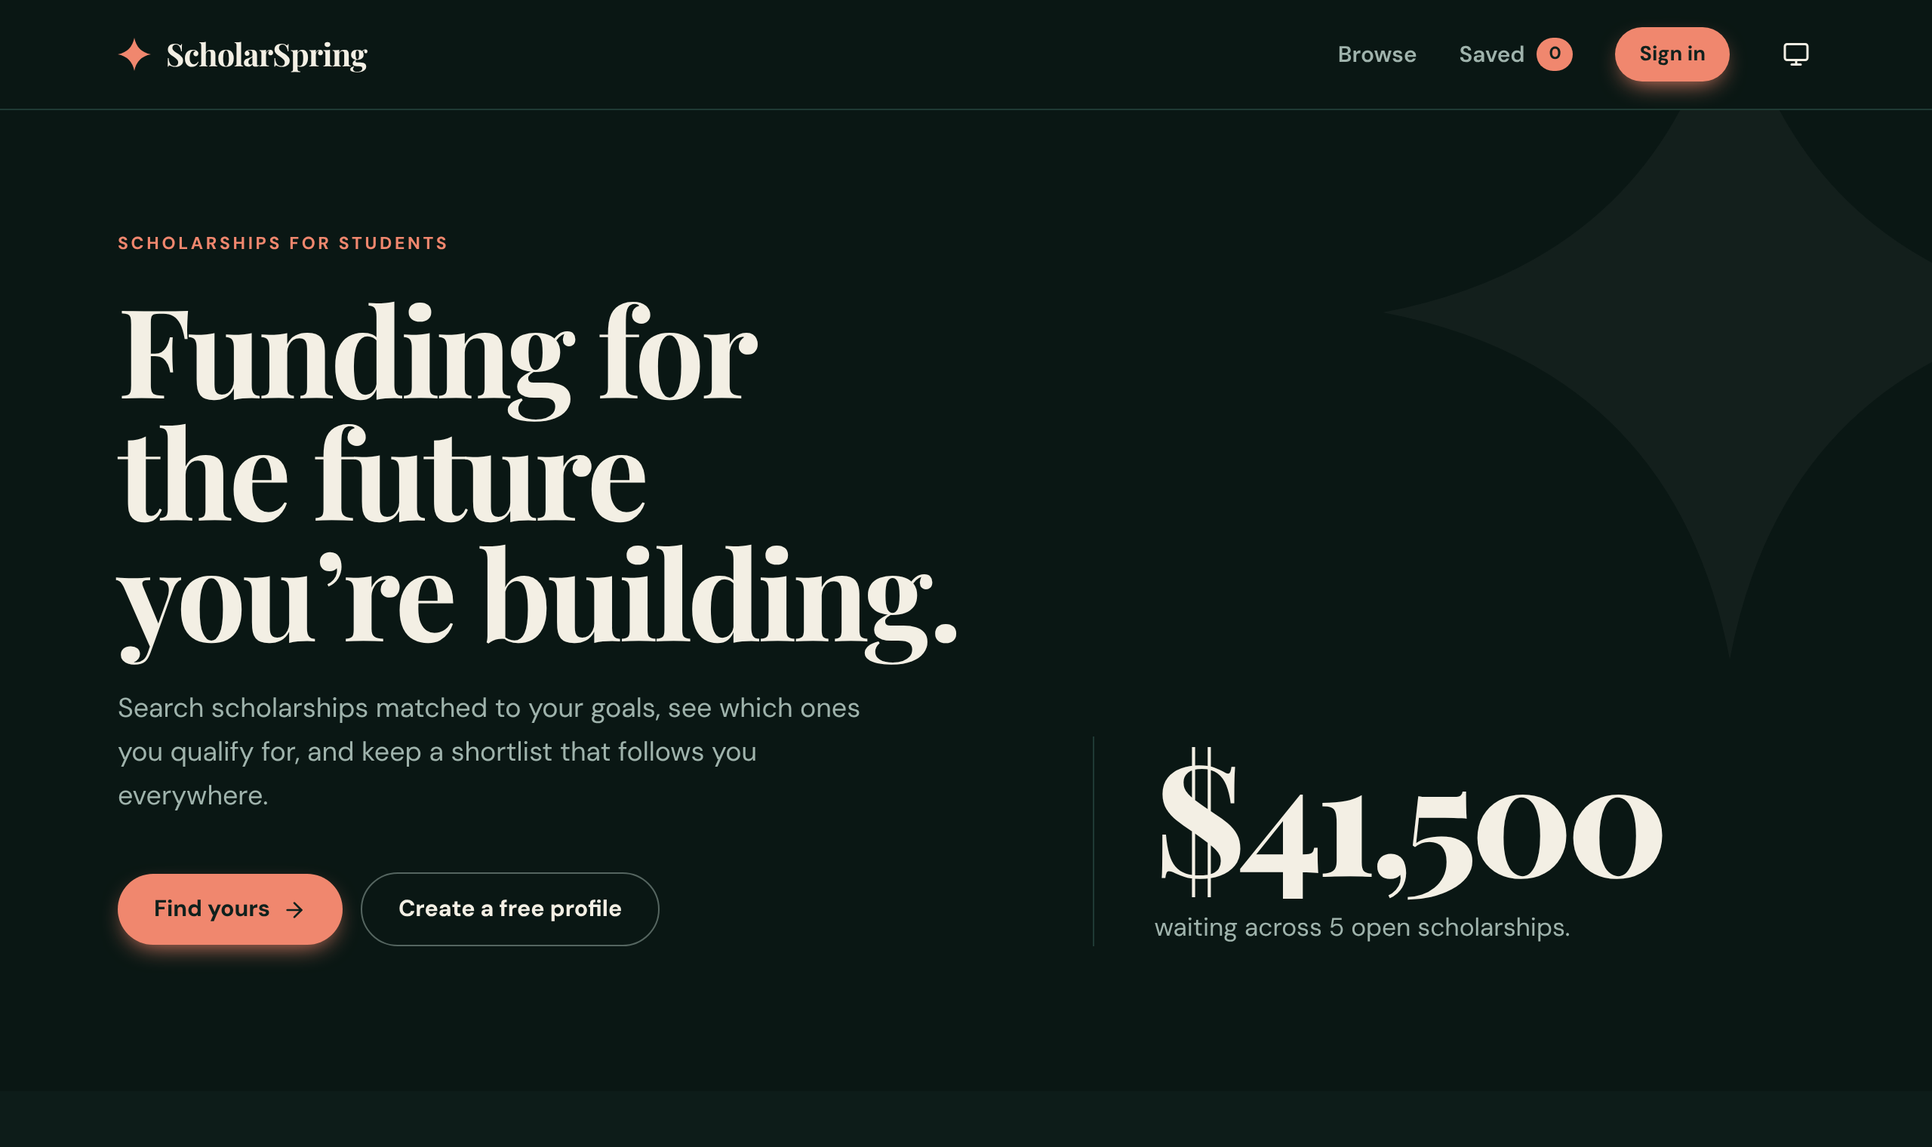
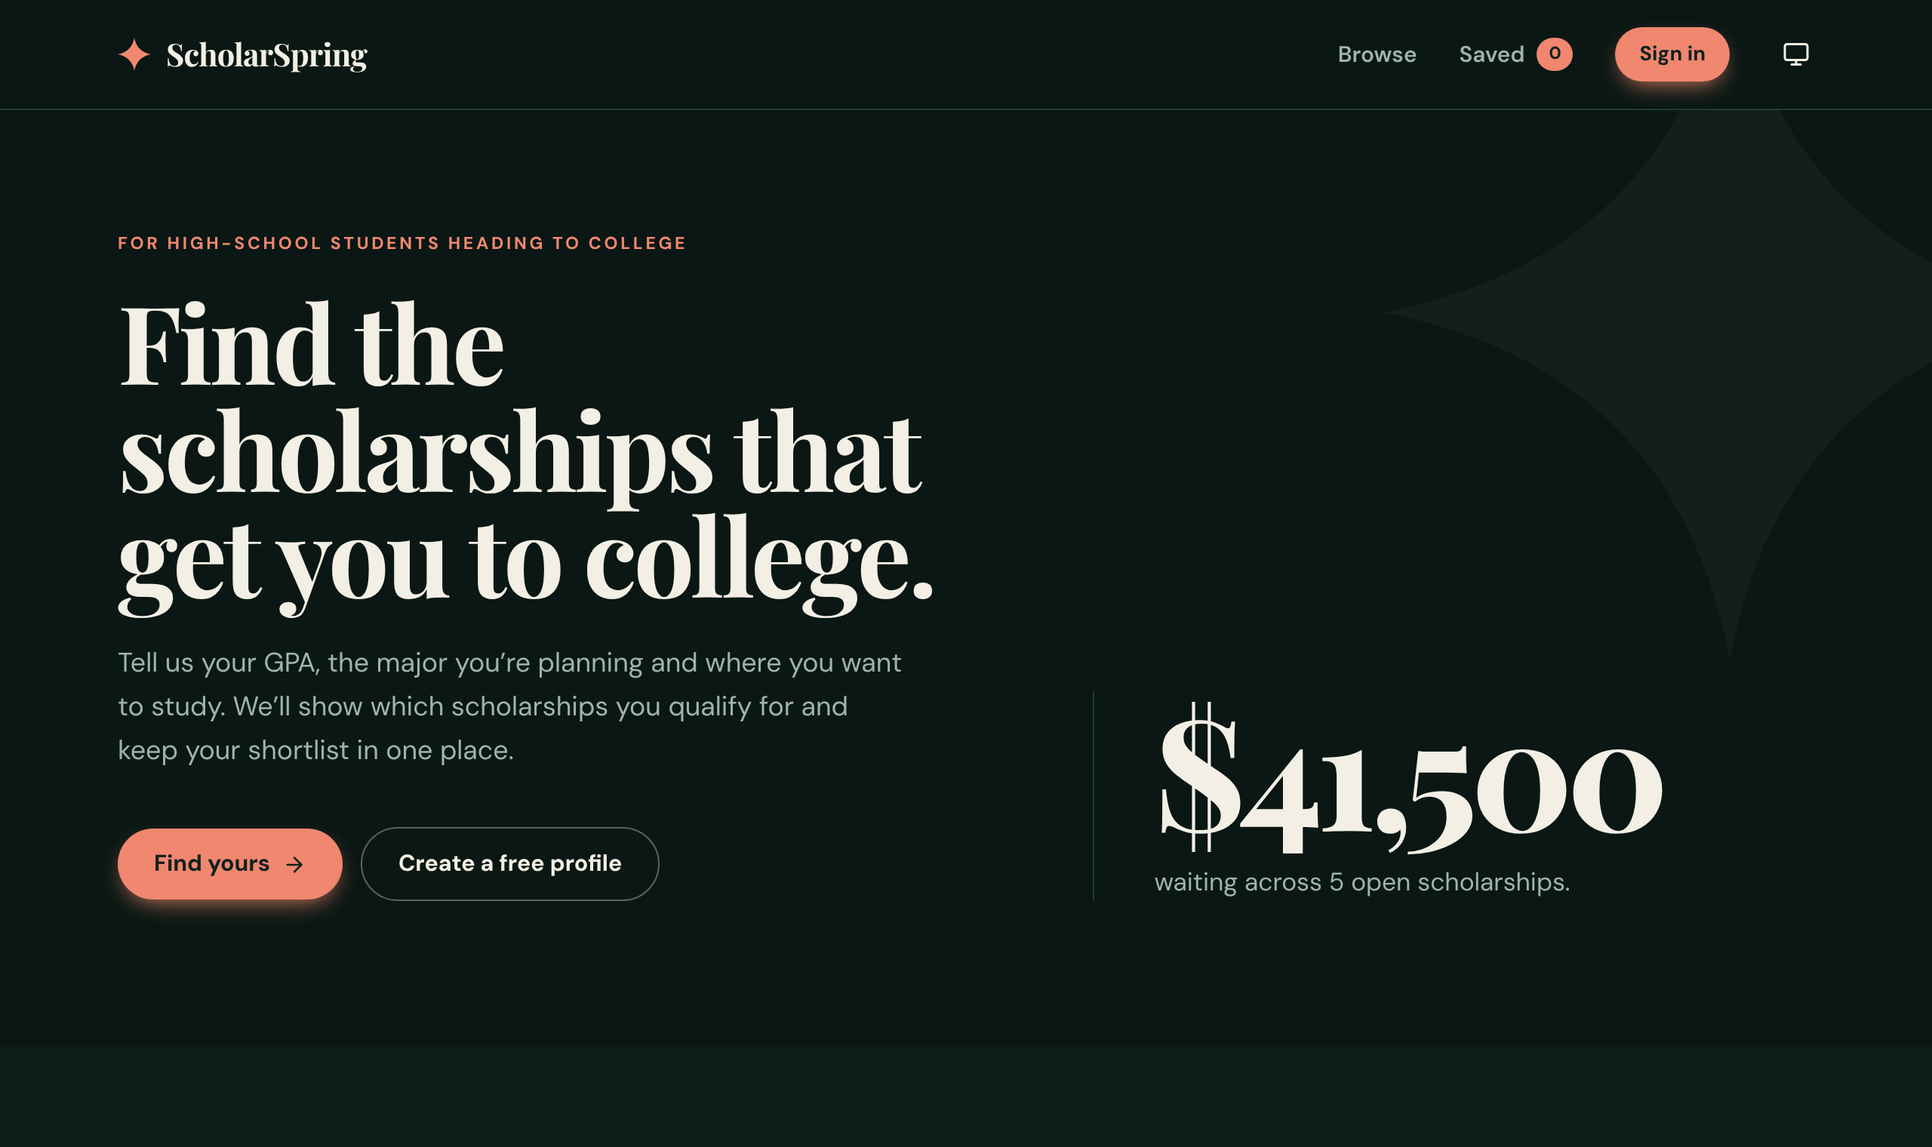
fix: word the app and scholarships for high-school students
ScholarSpring is for high schoolers applying to college, but the copy
and demo data mixed in undergraduate and professional framing.

- tab title and meta description now say college scholarships for
  high-school students
- home hero, steps, call to action, footer and sign-up text rewritten
  for high schoolers; profile asks 'Where you want to study' and shows
  'Anywhere in the US' for the National region
- migration rewords the six demo scholarships for graduating seniors;
  'Women Who Build' becomes 'Future Founders Award' (future-founders)
  and saved rows move to it
- README, CLAUDE.md (new audience and voice section), test fixtures
  and screenshots updated

Claude-Session: https://claude.ai/code/session_014dbfEEjxjTUT2tCdKwyB76

diff --git a/src/lib/fixtures.ts b/src/lib/fixtures.ts
@@ -1,11 +1,11 @@
 import type { Scholarship } from '../types'
 
-/** The six seeded scholarships (supabase/migrations/*_seed_scholarships.sql), for tests. */
+/** The six demo scholarships as the migrations leave them (seed + high-school wording), for tests. */
 export const SCHOLARSHIPS: Scholarship[] = [
-  {id:'stem-forward',name:'STEM Forward Scholarship',provider:'Bright Futures Foundation',category:'STEM & Innovation',amount:10000,deadline:'2026-04-30',gpa:3.2,majors:['Computer Science','Environmental Science'],regions:['National'],description:'For curious students using science and technology to create a more equitable, sustainable future.',eligibility:'Current high-school seniors or undergraduate students pursuing a STEM degree.'},
-  {id:'green-future',name:'Green Future Fellowship',provider:'Earthwell Initiative',category:'Environment',amount:7500,deadline:'2026-05-15',gpa:3.0,majors:['Environmental Science','Any major'],regions:['West','National'],description:'Supporting students with a passion for protecting our planet and strengthening local communities.',eligibility:'Students with a demonstrated interest in environmental stewardship or climate solutions.'},
-  {id:'first-gen',name:'First Generation Promise',provider:'The Northstar Fund',category:'Opportunity',amount:5000,deadline:'2026-06-01',gpa:2.8,majors:['Any major'],regions:['Midwest','National'],description:'A little momentum can change everything. This award helps first-generation students take their next step.',eligibility:'First-generation college students enrolled at an accredited institution.'},
-  {id:'future-teachers',name:'Future Teachers Award',provider:'Learnwell Foundation',category:'Education',amount:8000,deadline:'2026-06-20',gpa:3.0,majors:['Education'],regions:['National'],description:'Investing in the thoughtful, dedicated people who will shape the next generation of learners.',eligibility:'Students pursuing teaching certification or an education-related degree.'},
-  {id:'creative-voice',name:'Creative Voice Scholarship',provider:'Mosaic Arts Council',category:'Arts & Design',amount:4000,deadline:'2026-07-10',gpa:2.5,majors:['Arts & Design','Any major'],regions:['West','Northeast','National'],description:'Your perspective matters. Share the work that makes you see the world differently.',eligibility:'Emerging creators in visual art, design, film, music, or creative writing.'},
-  {id:'women-build',name:'Women Who Build',provider:'Forge Ventures',category:'Leadership',amount:12000,deadline:'2026-08-01',gpa:3.5,majors:['Computer Science','Business','Any major'],regions:['National'],description:'For women and nonbinary students turning bold ideas into companies, products, and movements.',eligibility:'Women and nonbinary undergraduate students demonstrating leadership and initiative.'},
+  {id:'stem-forward',name:'STEM Forward Scholarship',provider:'Bright Futures Foundation',category:'STEM & Innovation',amount:10000,deadline:'2026-04-30',gpa:3.2,majors:['Computer Science','Environmental Science'],regions:['National'],description:'For high-school seniors who love science and technology and plan to study it in college.',eligibility:'Graduating high-school seniors planning to major in computer science or environmental science.'},
+  {id:'green-future',name:'Green Future Scholarship',provider:'Earthwell Initiative',category:'Environment',amount:7500,deadline:'2026-05-15',gpa:3.0,majors:['Environmental Science','Any major'],regions:['West','National'],description:'For high-school seniors who have led environmental projects at school or in their community.',eligibility:'Graduating high-school seniors with environmental service or climate-action experience. Any intended major.'},
+  {id:'first-gen',name:'First Generation Promise',provider:'The Northstar Fund',category:'First Generation',amount:5000,deadline:'2026-06-01',gpa:2.8,majors:['Any major'],regions:['Midwest','National'],description:'For students who will be the first in their family to go to college.',eligibility:'High-school seniors whose parents did not finish a four-year degree, starting college next fall.'},
+  {id:'future-teachers',name:'Future Teachers Award',provider:'Learnwell Foundation',category:'Education',amount:8000,deadline:'2026-06-20',gpa:3.0,majors:['Education'],regions:['National'],description:'For high-school seniors who want to become teachers.',eligibility:'Graduating high-school seniors planning to study education in college. Tutoring or classroom volunteering is a plus.'},
+  {id:'creative-voice',name:'Creative Voice Scholarship',provider:'Mosaic Arts Council',category:'Arts & Design',amount:4000,deadline:'2026-07-10',gpa:2.5,majors:['Arts & Design','Any major'],regions:['West','Northeast','National'],description:'For high-school artists, writers, filmmakers and musicians on their way to college.',eligibility:'Graduating high-school seniors who submit a portfolio or writing sample. Any intended major.'},
+  {id:'future-founders',name:'Future Founders Award',provider:'Forge Ventures',category:'Leadership',amount:12000,deadline:'2026-08-01',gpa:3.5,majors:['Computer Science','Business','Any major'],regions:['National'],description:'For high-school students who started a club, business or community project and want to keep building in college.',eligibility:'Graduating high-school seniors who can show a project they started and led. Any intended major.'},
 ]

diff --git a/src/pages/HomePage.tsx b/src/pages/HomePage.tsx
@@ -9,9 +9,9 @@ import { isOpen } from '../lib/deadlines'
 import { formatAmount } from '../lib/format'
 
 const steps = [
-  ['Build your profile', 'Your GPA, intended major and where you want to study. It takes a minute.'],
-  ['See what fits', 'Every scholarship is checked against your profile, and the ones you qualify for are marked.'],
-  ['Keep a shortlist', 'Save the ones worth applying to. Your list follows you to any device.'],
+  ['Build your profile', 'Your high-school GPA, the major you’re planning and where you want to study. It takes a minute.'],
+  ['See what fits', 'Every scholarship is checked against your profile, so you know which ones you qualify for before you start an essay.'],
+  ['Keep a shortlist', 'Save the ones worth applying to and keep an eye on their deadlines. Your list follows you from your phone to the school library.'],
 ] as const
 
 export function HomePage() {
@@ -30,11 +30,11 @@ export function HomePage() {
         </svg>
         <div className="shell relative grid grid-cols-[1.25fr_1fr] items-end gap-12 pt-20 pb-24 max-md:grid-cols-1 max-md:gap-10 max-sm:pt-14 max-sm:pb-16">
           <div>
-            <p className="eyebrow text-accent">Scholarships for students</p>
-            <h1 className="mt-5 text-[clamp(2.9rem,6.4vw,5.4rem)] leading-[0.98]">Funding for the future you’re building.</h1>
+            <p className="eyebrow text-accent">For high-school students heading to college</p>
+            <h1 className="mt-5 text-[clamp(2.7rem,5.6vw,4.6rem)] leading-[0.98]">Find the scholarships that get you to college.</h1>
             <p className="mt-6 max-w-[520px] text-[1.12rem] leading-relaxed text-band-muted">
-              Search scholarships matched to your goals, see which ones you qualify for, and keep a shortlist that follows
-              you everywhere.
+              Tell us your GPA, the major you’re planning and where you want to study. We’ll show which scholarships you
+              qualify for and keep your shortlist in one place.
             </p>
             <div className="mt-9 flex flex-wrap items-center gap-3 max-sm:flex-col max-sm:items-stretch">
               <Link to={browseLink} className={buttonClass('primary')}>
@@ -97,9 +97,9 @@ export function HomePage() {
         <section className="shell py-20 max-sm:py-14">
           <div className="flex items-center justify-between gap-8 rounded-[2rem] bg-band px-12 py-14 text-band-fg max-md:flex-col max-md:items-start max-sm:px-7 max-sm:py-10">
             <div>
-              <p className="eyebrow text-accent">A little help goes a long way</p>
-              <h2 className="mt-3 text-[clamp(2rem,4vw,2.8rem)] leading-tight">Ready to make a plan?</h2>
-              <p className="mt-3 max-w-[480px] text-band-muted">Build your profile once and see what you qualify for.</p>
+              <p className="eyebrow text-accent">Senior year moves fast</p>
+              <h2 className="mt-3 text-[clamp(2rem,4vw,2.8rem)] leading-tight">Ready to start applying?</h2>
+              <p className="mt-3 max-w-[480px] text-band-muted">Build your profile once and see every scholarship you qualify for.</p>
             </div>
             <button type="button" onClick={() => openAuth('profile')} className={buttonClass('primary')}>
               Build my profile <ArrowRight aria-hidden className="size-4" />

diff --git a/src/lib/browse.test.ts b/src/lib/browse.test.ts
@@ -25,12 +25,12 @@ describe('parseBrowse / browseParams', () => {
 describe('sortScholarships', () => {
   it('sorts by deadline, soonest first', () => {
     expect(ids(sortScholarships(SCHOLARSHIPS.toReversed(), 'deadline'))).toEqual([
-      'stem-forward', 'green-future', 'first-gen', 'future-teachers', 'creative-voice', 'women-build',
+      'stem-forward', 'green-future', 'first-gen', 'future-teachers', 'creative-voice', 'future-founders',
     ])
   })
 
   it('sorts by amount, highest first', () => {
-    expect(ids(sortScholarships(SCHOLARSHIPS, 'amount')).slice(0, 3)).toEqual(['women-build', 'stem-forward', 'future-teachers'])
+    expect(ids(sortScholarships(SCHOLARSHIPS, 'amount')).slice(0, 3)).toEqual(['future-founders', 'stem-forward', 'future-teachers'])
   })
 
   it('does not change the input', () => {
@@ -44,13 +44,13 @@ describe('browse', () => {
   it('hides closed scholarships unless asked, and counts them', () => {
     const today = '2026-06-10' // stem, green and first-gen have closed
     expect(browse(SCHOLARSHIPS, DEFAULT_BROWSE, today)).toMatchObject({ hiddenClosed: 3 })
-    expect(ids(browse(SCHOLARSHIPS, DEFAULT_BROWSE, today).results)).toEqual(['future-teachers', 'creative-voice', 'women-build'])
+    expect(ids(browse(SCHOLARSHIPS, DEFAULT_BROWSE, today).results)).toEqual(['future-teachers', 'creative-voice', 'future-founders'])
     expect(browse(SCHOLARSHIPS, { ...DEFAULT_BROWSE, showClosed: true }, today)).toMatchObject({ hiddenClosed: 0 })
   })
 
   it('applies filters before hiding closed ones', () => {
     const result = browse(SCHOLARSHIPS, { ...DEFAULT_BROWSE, major: 'Education' }, '2026-06-10')
-    expect(ids(result.results)).toEqual(['future-teachers', 'creative-voice', 'women-build'])
+    expect(ids(result.results)).toEqual(['future-teachers', 'creative-voice', 'future-founders'])
     expect(result.hiddenClosed).toBe(2)
   })
 })

diff --git a/src/lib/matching.test.ts b/src/lib/matching.test.ts
@@ -13,7 +13,7 @@ describe('matchesScholarship', () => {
   it('searches name, provider and category, ignoring case and spaces', () => {
     expect(ids({ query: '  green ' })).toEqual(['green-future'])
     expect(ids({ query: 'northstar' })).toEqual(['first-gen'])
-    expect(ids({ query: 'LEADERSHIP' })).toEqual(['women-build'])
+    expect(ids({ query: 'LEADERSHIP' })).toEqual(['future-founders'])
   })
 
   // Round 1 bug: the filter kept scholarships whose minimum GPA was ABOVE the student's.
@@ -30,7 +30,7 @@ describe('matchesScholarship', () => {
   })
 
   it('lets "Any major" scholarships match every major', () => {
-    expect(ids({ major: 'Education' }).toSorted()).toEqual(['creative-voice', 'first-gen', 'future-teachers', 'green-future', 'women-build'])
+    expect(ids({ major: 'Education' }).toSorted()).toEqual(['creative-voice', 'first-gen', 'future-founders', 'future-teachers', 'green-future'])
   })
 
   it('lets "National" scholarships match every region', () => {
@@ -74,7 +74,7 @@ describe('profileMatch', () => {
   })
 
   it('reports each criterion that does not fit', () => {
-    expect(profileMatch(byId('women-build'), maya)).toEqual({ gpa: false, major: true, region: true, all: false })
+    expect(profileMatch(byId('future-founders'), maya)).toEqual({ gpa: false, major: true, region: true, all: false })
     expect(profileMatch(byId('future-teachers'), maya)).toEqual({ gpa: true, major: false, region: true, all: false })
   })
 

diff --git a/index.html b/index.html
@@ -3,7 +3,7 @@
   <head>
     <meta charset="UTF-8" />
     <meta name="viewport" content="width=device-width, initial-scale=1.0" />
-    <meta name="description" content="Search scholarships matched to your goals, background, and big plans." />
+    <meta name="description" content="Find college scholarships you qualify for. Built for high-school students: search by GPA, intended major and region, and keep a shortlist of awards to apply for before their deadlines." />
     <link rel="icon" type="image/svg+xml" href="/favicon.svg" />
     <script>
       // Apply the saved or system theme before first paint (see src/lib/theme.ts).
@@ -14,7 +14,7 @@
         }
       } catch (e) {}
     </script>
-    <title>ScholarSpring | Find funding for what’s next</title>
+    <title>ScholarSpring · College scholarships for high-school students</title>
     <link rel="preconnect" href="https://fonts.googleapis.com" />
     <link rel="preconnect" href="https://fonts.gstatic.com" crossorigin />
     <link href="https://fonts.googleapis.com/css2?family=DM+Sans:wght@400;500;600;700&family=Playfair+Display:wght@600;700;800&display=swap" rel="stylesheet" />

diff --git a/src/components/ProfileFields.tsx b/src/components/ProfileFields.tsx
@@ -19,10 +19,12 @@ export function ProfileFields({ values, onChange }: { values: ProfileFieldValues
           <input required type="number" min="0" max="4" step="0.01" placeholder="3.7" value={values.gpa} onChange={set('gpa')} />
         </label>
         <label className={fieldLabel}>
-          Preferred region
+          Where you want to study
           <select value={values.region} onChange={set('region')}>
             {REGIONS.map((region) => (
-              <option key={region}>{region}</option>
+              <option key={region} value={region}>
+                {region === 'National' ? 'Anywhere in the US' : region}
+              </option>
             ))}
           </select>
         </label>

diff --git a/src/components/AuthDialog.tsx b/src/components/AuthDialog.tsx
@@ -37,7 +37,7 @@ export function AuthDialog({ open, mode, formKey, busy, onClose, onSwitchMode, o
           {signin ? 'Welcome back' : 'Create your profile'}
         </h2>
         <p className="mt-2 text-[.92rem] text-muted">
-          {signin ? 'Sign in to see your saved scholarships.' : 'Tell us a little about yourself and we’ll show what you qualify for.'}
+          {signin ? 'Sign in to see your saved scholarships.' : 'Tell us about your grades and college plans, and we’ll show what you qualify for.'}
         </p>
       </div>
       <AuthForm key={`${formKey}-${mode}`} signin={signin} busy={busy} onSubmit={onSubmit} />

diff --git a/src/hooks/useDocumentTitle.ts b/src/hooks/useDocumentTitle.ts
@@ -2,6 +2,6 @@ import { useEffect } from 'react'
 
 export function useDocumentTitle(title: string) {
   useEffect(() => {
-    document.title = title ? `${title} · ScholarSpring` : 'ScholarSpring | Find funding for what’s next'
+    document.title = title ? `${title} · ScholarSpring` : 'ScholarSpring · College scholarships for high-school students'
   }, [title])
 }

diff --git a/src/components/Footer.tsx b/src/components/Footer.tsx
@@ -17,7 +17,7 @@ export function Footer() {
             Profile
           </Link>
         </nav>
-        <span>© 2026 ScholarSpring · Tools for the students shaping what’s next.</span>
+        <span>© 2026 ScholarSpring · College scholarships for high-school students.</span>
       </div>
     </footer>
   )

diff --git a/README.md b/README.md
@@ -7,10 +7,10 @@
 
 <br>
 
-**Find funding for the future you're building.**
+**Find the scholarships that get you to college.**
 
-A scholarship finder for students. Search and filter awards, build a profile once,<br>
-and keep a shortlist of the scholarships worth applying to.
+A scholarship finder for high-school students applying to college. Search and filter awards,<br>
+see which ones you qualify for, and keep a shortlist of the ones worth applying to.
 
 <p>
   <a href="https://scholarspring-snowy.vercel.app"><picture><source media="(prefers-color-scheme: dark)" srcset="https://img.shields.io/badge/live_demo-scholarspring--snowy.vercel.app-ec795f?style=flat-square&logo=vercel&logoColor=white&labelColor=3b5a53"><img alt="Live demo" src="https://img.shields.io/badge/live_demo-scholarspring--snowy.vercel.app-ec795f?style=flat-square&logo=vercel&logoColor=white&labelColor=193631"></picture></a>&nbsp;
@@ -40,7 +40,7 @@ and keep a shortlist of the scholarships worth applying to.
 
 <picture>
   <source media="(prefers-color-scheme: dark)" srcset=".github/assets/screenshot-dark.png">
-  <img src=".github/assets/screenshot-light.png" alt="ScholarSpring home page: a forest-green hero reading “Funding for the future you’re building.” next to the total of open awards, above cards for scholarships closing soon" width="820">
+  <img src=".github/assets/screenshot-light.png" alt="ScholarSpring home page: a forest-green hero reading “Find the scholarships that get you to college.” next to the total of open awards, above cards for scholarships closing soon" width="820">
 </picture>
 
 </div>
@@ -82,8 +82,8 @@ cp .env.example .env.local   # then fill in your Supabase URL and anon key
 ### 3. Set up the database
 
 In the Supabase dashboard, open **SQL Editor** and run each file in [`supabase/migrations/`](supabase/migrations) in
-order. The first creates the tables, security rules and sign-up trigger; the next two add the six demo scholarships
-and move their deadlines into 2027.
+order. The first creates the tables, security rules and sign-up trigger; the rest add the six demo scholarships,
+move their deadlines into 2027 and word them for high-school seniors.
 
 <details>
 <summary><strong>Or use the Supabase CLI</strong></summary>

diff --git a/CLAUDE.md b/CLAUDE.md
@@ -4,7 +4,14 @@ Guide for anyone (human or AI assistant) working on ScholarSpring. Read this bef
 
 ## What ScholarSpring is
 
-A scholarship finder for students. It was first built in Vibe Coding 1 as a frontend-only demo. It is now being rebuilt step by step for an AI-aided software engineering course.
+A scholarship finder for **high-school students applying to college** (mostly juniors and seniors). It was first built in Vibe Coding 1 as a frontend-only demo, then rebuilt step by step for an AI-aided software engineering course.
+
+### Audience and voice
+
+- Write for a high-school student planning for college: plain words, second person ("you"), no jargon.
+- Scholarships are for students starting college (e.g. "graduating high-school seniors"), not undergraduates, graduate students or professionals. Avoid "fellowship", "enrolled at an accredited institution" and similar college-level framing.
+- The profile asks for **high-school** GPA, the major they're **planning**, and where they want to study ("Anywhere in the US" is shown for the `National` region).
+- The tab title is `ScholarSpring · College scholarships for high-school students`; page titles are `<Page> · ScholarSpring` (`useDocumentTitle`).
 
 ### Requirements
 
@@ -180,3 +187,4 @@ themes keep working. Every text/background pair below meets WCAG AA in both them
 | Browse filters in the URL; profile filters via the Browse link | Shareable and reload-proof searches, while signed-in students still start from their profile |
 | Hide closed scholarships by default | Students act on open ones; closed ones are one click away |
 | Migration moving the demo deadlines into 2027 | The seeded 2026 deadlines had passed, which would have left Browse empty |
+| Demo scholarships reworded for high-school seniors | The original copy mixed undergraduate and professional awards; "Women Who Build" became "Future Founders Award" (`future-founders`), with saved rows moved over |
